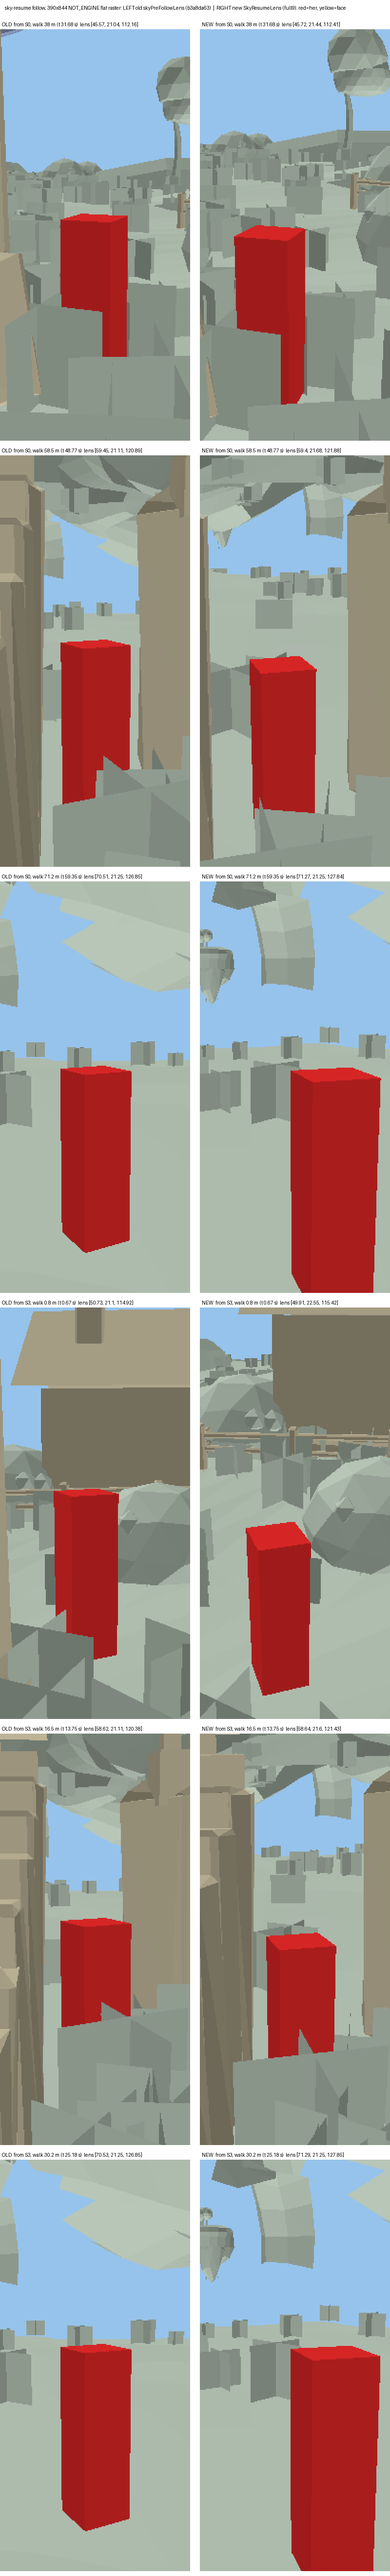
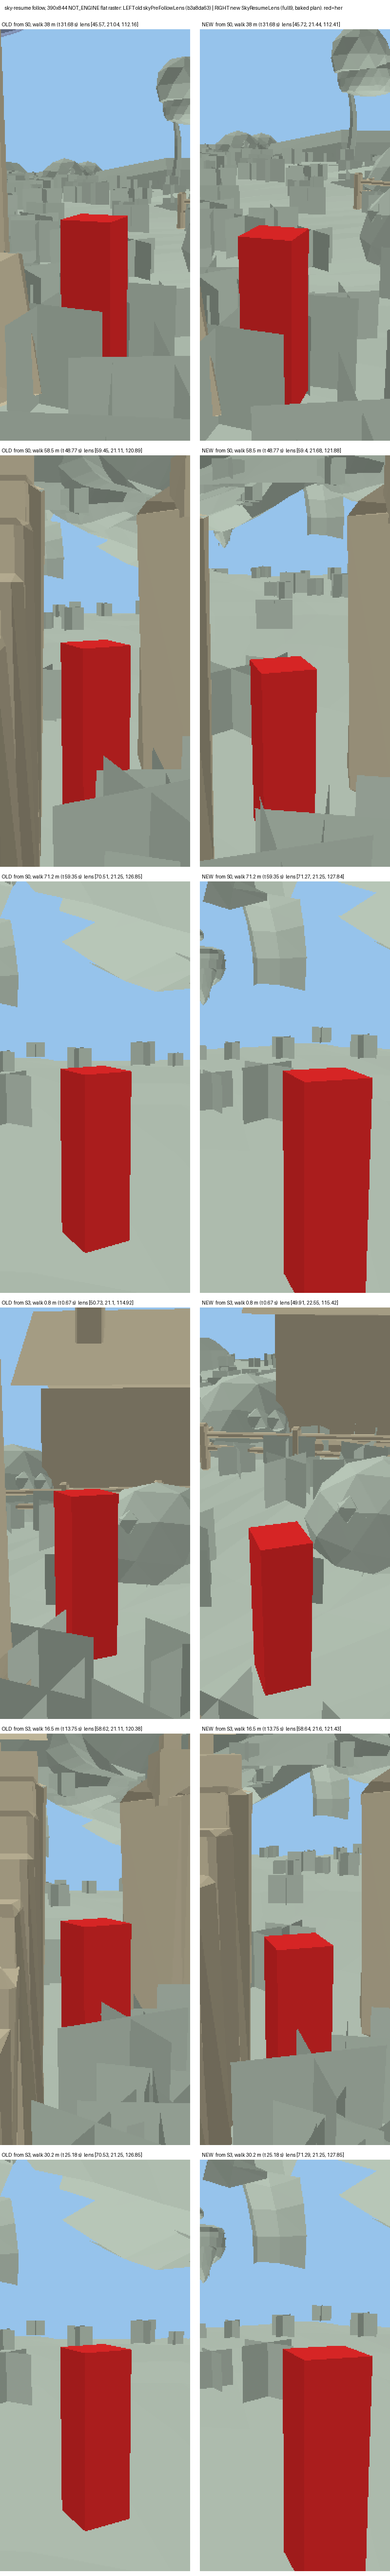
full9 sky-resume: baked SkyResumeLens plans for S0–S5 (SkyResumePlans.ts, generator bake_sky_resume_plans.cjs, staleness test sky-resume-plans-fresh in suite); runtime zero planning (0.1–6 ms lookup+trail), live planner only as logged fallback; lens positions unchanged (≤1 mm rounding); heading foll

diff --git a/creator-build-project/assets/scripts/region/SkyResumePlans.ts b/creator-build-project/assets/scripts/region/SkyResumePlans.ts
@@ -1,0 +1,9 @@
+// GENERATED by tools/skycity-walk/bake_sky_resume_plans.cjs — do not edit. voxHash b98b54f2b8880daa (SkyLensVoxels.ts sha256/16).
+export const SKY_RESUME_VOX_HASH='b98b54f2b8880daa';
+export const SKY_RESUME_PLANS:readonly {from:string;key:string;back:readonly number[];lift:readonly number[];side:readonly number[];feasible:boolean;worst:number}[]=[
+ {from:'S0',key:'57f26301:29',feasible:false,worst:10,back:[4.6,4.6,4.6,4.6,4.6,4.6,4.6,4.6,4.6,4.6,4.6,4.6,4.6,4.6,4.6,4.6,4.6,4.6,4.6,4.6,4.6,4.6,4.6,4.6,4.6,4.6,4.6,4.6,4.6,4.6,4.6,4.6,4.6,4.6,4.6,4.6,4.6,4.6,4.6,4.6,4.6,4.6,4.6,4.6,4.6,4.6,4.6,4.6,4.6,4.6,4.6,4.6,4.6,4.6,4.6,4.6,4.599,4.599,4.599,4.598,4.598,4.597,4.596,4.595,4.594,4.592,4.59,4.588,4.585,4.582,4.578,4.573,4.567,4.561,4.554,4.546,4.538,4.528,4.517,4.506,4.493,4.48,4.466,4.451,4.435,4.419,4.401,4.386,4.363,4.362,4.3,4.408,4.386,4.424,4.412,4.414,4.425,4.396,4.405,4.34,4.262,4.191,4.249,4.257,4.285,4.306,4.329,4.351,4.373,4.394,4.415,4.435,4.454,4.472,4.489,4.504,4.518,4.53,4.541,4.551,4.559,4.566,4.572,4.577,4.581,4.584,4.587,4.588,4.589,4.59,4.59,4.589,4.588,4.586,4.583,4.58,4.576,4.572,4.566,4.56,4.552,4.544,4.535,4.524,4.513,4.5,4.486,4.471,4.455,4.438,4.42,4.4,4.382,4.358,4.347,4.3,4.347,4.357,4.38,4.398,4.417,4.434,4.451,4.467,4.481,4.494,4.506,4.517,4.526,4.534,4.541,4.546,4.55,4.553,4.555,4.556,4.555,4.553,4.55,4.547,4.542,4.537,4.528,4.528,4.504,4.54,4.42,4.192,4.033,3.7,3.82,3.881,3.965,4.04,4.117,4.195,4.27,4.352,4.416,4.525,4.517,4.549,4.58,4.572,4.579,4.58,4.583,4.585,4.587,4.589,4.591,4.593,4.594,4.595,4.596,4.597,4.597,4.598,4.598,4.598,4.598,4.598,4.598,4.598,4.597,4.597,4.596,4.596,4.595,4.594,4.593,4.592,4.591,4.589,4.589,4.585,4.59,4.572,4.566,4.548,4.554,4.5,4.6,4.3,4,3.7,3.4,3.1,3.402,3.39,3.498,3.561,3.639,3.717,3.779,3.812,3.7,3.816,3.844,3.905,3.952,4.003,4.05,4.096,4.14,4.181,4.22,4.257,4.291,4.322,4.351,4.376,4.4,4.42,4.439,4.456,4.47,4.485,4.491,4.517,4.49,4.6,4.3,4,3.7,3.4,3.1,2.8,2.5,2.872,2.916,3.086,3.206,3.349,3.472,3.551,3.646,3.735,3.827,3.917,4.01,4.095,4.2,4.252,4.316,4.396,4.415,4.6,4.349,4.236,4.056,3.94,3.7,3.4,3.662,3.708,3.837,3.934,4.043,4.149,4.253,4.364,4.45,4.528],lift:[0,0,0,0,0,0,0,0,0,0,0,0,0,0,0,0,0,0,0,0,0,0,0,0,0,0,0,0,0,0,0,0,0,0,0,0,0,0,0,0,0,0,0.001,0.001,0.001,0.002,0.002,0.003,0.004,0.005,0.007,0.009,0.011,0.015,0.019,0.024,0.03,0.038,0.048,0.059,0.073,0.09,0.11,0.134,0.162,0.194,0.232,0.277,0.327,0.386,0.452,0.527,0.61,0.704,0.808,0.923,1.049,1.186,1.334,1.494,1.665,1.846,2.038,2.238,2.448,2.662,2.89,3.103,3.372,3.504,4,3.88,3.89,3.864,3.814,3.768,3.737,3.656,3.611,3.507,3.284,3.076,2.9,2.713,2.535,2.359,2.189,2.026,1.87,1.723,1.584,1.455,1.334,1.224,1.123,1.031,0.947,0.872,0.804,0.743,0.689,0.641,0.597,0.558,0.523,0.491,0.462,0.435,0.41,0.387,0.366,0.346,0.327,0.31,0.294,0.28,0.268,0.257,0.249,0.242,0.238,0.237,0.238,0.242,0.249,0.258,0.271,0.286,0.304,0.325,0.347,0.373,0.398,0.429,0.45,0.5,0.476,0.481,0.476,0.475,0.474,0.475,0.477,0.481,0.487,0.497,0.509,0.526,0.547,0.573,0.606,0.645,0.692,0.747,0.811,0.885,0.969,1.063,1.167,1.282,1.408,1.544,1.69,1.845,2.008,2.181,2.351,2.551,2.688,3,2.86,2.831,2.76,2.705,2.643,2.584,2.522,2.468,2.393,2.372,2.211,2.104,1.978,1.863,1.746,1.635,1.526,1.422,1.322,1.227,1.137,1.053,0.974,0.9,0.833,0.771,0.714,0.664,0.618,0.579,0.544,0.516,0.492,0.473,0.46,0.451,0.448,0.449,0.455,0.465,0.478,0.496,0.516,0.542,0.563,0.602,0.598,0.713,0.78,0.875,0.933,1.077,1,1.5,2,2.5,3,3.5,3.337,3.382,3.348,3.344,3.328,3.318,3.302,3.178,2.939,2.745,2.537,2.34,2.146,1.959,1.778,1.606,1.442,1.288,1.144,1.009,0.885,0.77,0.666,0.571,0.485,0.408,0.338,0.275,0.218,0.166,0.116,0.075,0.018,0.008,0,0,0,0,0,0,0,0,0,0,0,0,0,0,0,0,0,0,0,0,0,0,0,0,0,0,0,0,0,0,0,0,0,0,0,0,0,0,0,0,0,0],side:[0,0,0,0,0,0,0,0,0,0,0,0,0,0,0,0,0,0,0,0,0,0,0,0,0,0,0,0,0,0,0,0,0,0,0,0,0,0,0,0,0,0,0,0,0,0,0,0,0,0,0,0,0,0,0,0,0,0,0,0,0,0,0,0,0,0,0,0,0,0,0,0,0,0,0,0,0,0,0,0,0,0,0,0,0,0,0,0,0,0,0,0,0,0,0,0,0,0,0,0,0,0,0,0,0,0,0,0,0,0,0,0,0,0,0,0,0,0,0,0,0,0,-0.001,-0.001,-0.001,-0.001,-0.002,-0.002,-0.003,-0.004,-0.005,-0.007,-0.008,-0.01,-0.013,-0.016,-0.019,-0.023,-0.028,-0.033,-0.04,-0.047,-0.055,-0.064,-0.073,-0.084,-0.096,-0.109,-0.122,-0.137,-0.152,-0.169,-0.185,-0.205,-0.217,-0.25,-0.232,-0.234,-0.23,-0.23,-0.23,-0.234,-0.239,-0.248,-0.259,-0.274,-0.292,-0.314,-0.339,-0.368,-0.401,-0.438,-0.478,-0.521,-0.568,-0.618,-0.672,-0.728,-0.786,-0.847,-0.91,-0.975,-1.041,-1.109,-1.174,-1.25,-1.3,-1.2,-1.125,-1,-1,-0.892,-0.825,-0.743,-0.667,-0.588,-0.511,-0.43,-0.359,-0.264,-0.23,-0.184,-0.115,-0.126,-0.108,-0.101,-0.091,-0.083,-0.076,-0.071,-0.067,-0.065,-0.064,-0.066,-0.069,-0.075,-0.083,-0.094,-0.108,-0.124,-0.144,-0.166,-0.192,-0.221,-0.253,-0.288,-0.327,-0.368,-0.413,-0.46,-0.51,-0.563,-0.618,-0.672,-0.734,-0.781,-0.87,-0.853,-0.879,-0.882,-0.912,-0.886,-1,-0.75,-0.5,-0.25,0,0,0,0,0,0,0,0.001,0,0.003,0,-0.018,-0.032,-0.048,-0.066,-0.087,-0.11,-0.137,-0.168,-0.203,-0.242,-0.287,-0.336,-0.39,-0.45,-0.515,-0.585,-0.66,-0.739,-0.822,-0.908,-1.001,-1.083,-1.202,-1.23,-1.5,-1.25,-1,-0.75,-0.5,-0.5,-0.75,-1,-0.95,-0.951,-0.932,-0.92,-0.908,-0.89,-0.794,-0.729,-0.652,-0.579,-0.505,-0.43,-0.359,-0.278,-0.222,-0.153,-0.097,-0.014,0,0.193,0.264,0.414,0.45,0.75,0.5,0.486,0.383,0.314,0.232,0.155,0.075,-0.001,-0.085,-0.147,-0.203]},
+ {from:'S1',key:'747f2620:23',feasible:false,worst:4,back:[4.599,4.599,4.598,4.598,4.597,4.596,4.595,4.594,4.592,4.589,4.586,4.582,4.577,4.571,4.564,4.555,4.544,4.531,4.515,4.497,4.476,4.452,4.424,4.393,4.357,4.318,4.273,4.225,4.172,4.114,4.052,3.986,3.916,3.842,3.764,3.688,3.599,3.535,3.4,3.451,3.422,3.425,3.415,3.411,3.405,3.4,3.4,3.4,3.4,3.461,3.4,3.539,3.6,3.689,3.765,3.843,3.916,3.986,4.052,4.114,4.171,4.224,4.273,4.317,4.357,4.392,4.424,4.452,4.476,4.497,4.515,4.53,4.542,4.553,4.561,4.568,4.573,4.577,4.58,4.581,4.582,4.581,4.58,4.578,4.574,4.57,4.565,4.559,4.552,4.544,4.534,4.524,4.512,4.5,4.486,4.471,4.455,4.438,4.42,4.4,4.382,4.358,4.347,4.3,4.347,4.357,4.381,4.399,4.418,4.435,4.452,4.468,4.483,4.497,4.509,4.52,4.53,4.54,4.548,4.554,4.56,4.565,4.569,4.573,4.575,4.577,4.578,4.579,4.579,4.578,4.577,4.576,4.574,4.571,4.571,4.564,4.47,4.433,4.3,4.386,4.388,4.421,4.456,4.489,4.524,4.553,4.6,4.6,4.6,4.6,4.6,4.6,4.6,4.6,4.6,4.6,4.6,4.6,4.6,4.6,4.6,4.6,4.6,4.6,4.6,4.6,4.6,4.6,4.6,4.6,4.6,4.6,4.6,4.6,4.6,4.6,4.6,4.6,4.6,4.6,4.6,4.6,4.6,4.6,4.6,4.6,4.6,4.6,4.6,4.6,4.6,4.6,4.6,4.3,4,3.7,3.4,3.604,3.616,3.701,3.757,3.826,3.888,3.957,3.94,4,4.026,4.064,4.098,4.132,4.166,4.199,4.231,4.261,4.291,4.319,4.345,4.37,4.392,4.413,4.431,4.448,4.462,4.474,4.485,4.493,4.501,4.505,4.512,4.51,4.528,4.489,4.6,4.3,4,4.165,4.151,4.205,4.233,4.269,4.299,4.33,4.359,4.386,4.411,4.434,4.455,4.475,4.492,4.508,4.522,4.534,4.545,4.554,4.562,4.569,4.575,4.579,4.583,4.587,4.59,4.592,4.594,4.595,4.596,4.597,4.598,4.598,4.599,4.599,4.6,4.6],lift:[0.004,0.004,0.005,0.007,0.009,0.011,0.015,0.019,0.025,0.033,0.042,0.053,0.067,0.085,0.105,0.13,0.16,0.195,0.236,0.284,0.34,0.403,0.475,0.556,0.648,0.749,0.861,0.983,1.116,1.26,1.413,1.576,1.748,1.927,2.116,2.301,2.517,2.667,3,2.86,2.858,2.777,2.733,2.656,2.615,2.5,2.5,2.5,2.5,2.396,2.283,2.151,2.028,1.904,1.784,1.668,1.556,1.448,1.346,1.25,1.16,1.076,0.998,0.927,0.861,0.801,0.746,0.697,0.652,0.611,0.573,0.539,0.508,0.48,0.453,0.428,0.405,0.384,0.363,0.344,0.326,0.309,0.294,0.28,0.268,0.257,0.249,0.242,0.238,0.237,0.238,0.242,0.249,0.259,0.271,0.287,0.305,0.325,0.348,0.373,0.399,0.429,0.451,0.5,0.478,0.484,0.48,0.481,0.481,0.483,0.486,0.492,0.499,0.51,0.524,0.542,0.565,0.593,0.628,0.67,0.72,0.779,0.847,0.925,1.015,1.115,1.227,1.351,1.487,1.634,1.793,1.963,2.143,2.33,2.531,2.724,2.96,3.102,3.5,3.236,3.218,3.128,2.999,2.888,2.762,2.663,2.5,2.5,2.314,2.201,2.062,1.937,1.81,1.689,1.572,1.46,1.354,1.253,1.158,1.069,0.987,0.91,0.84,0.776,0.718,0.666,0.619,0.579,0.543,0.514,0.489,0.47,0.456,0.448,0.444,0.446,0.454,0.466,0.484,0.507,0.535,0.568,0.606,0.648,0.694,0.743,0.797,0.85,0.915,0.956,1.063,1,1.5,2,2.5,3,3.5,3.293,3.356,3.315,3.315,3.296,3.294,3.262,3.2,2.938,2.754,2.543,2.347,2.151,1.963,1.781,1.607,1.442,1.286,1.14,1.005,0.88,0.766,0.662,0.568,0.485,0.41,0.344,0.286,0.235,0.19,0.151,0.116,0.083,0.055,0.022,0.006,0.004,0.004,0.004,0.003,0.003,0.003,0.003,0.003,0.003,0.003,0.004,0.004,0.005,0.006,0.008,0.009,0.011,0.014,0.017,0.02,0.024,0.029,0.034,0.039,0.046,0.053,0.061,0.069,0.078,0.088,0.099,0.11,0.122,0.134,0.147,0.16,0.175,0.187,0.206],side:[0,0,0,0,0,0,0,0,0,0,0,0,0,0,0,0,0,0,0,0,0,0,0,0,0,0,0,0,0,0,0,0,0,0,0,0,0,0,0,0,0,0,0,0,0,0,0,0,0,0,0,0,0,0,0,0,0,0,0,0,0,0,0,0,0,0,0,0,0,0,-0.001,-0.001,-0.001,-0.001,-0.002,-0.002,-0.003,-0.004,-0.005,-0.007,-0.008,-0.01,-0.013,-0.016,-0.019,-0.023,-0.028,-0.033,-0.04,-0.047,-0.055,-0.063,-0.073,-0.084,-0.096,-0.108,-0.122,-0.137,-0.152,-0.169,-0.185,-0.204,-0.217,-0.25,-0.229,-0.23,-0.225,-0.223,-0.222,-0.224,-0.228,-0.235,-0.245,-0.259,-0.275,-0.295,-0.319,-0.347,-0.378,-0.413,-0.452,-0.494,-0.54,-0.589,-0.64,-0.695,-0.752,-0.812,-0.873,-0.936,-1.001,-1.067,-1.134,-1.202,-1.268,-1.34,-1.195,-1.139,-1,-0.987,-0.924,-0.883,-0.8,-0.735,-0.658,-0.598,-0.5,-0.5,-0.389,-0.321,-0.248,-0.161,-0.143,-0.107,-0.084,-0.066,-0.054,-0.048,-0.045,-0.045,-0.048,-0.053,-0.06,-0.069,-0.08,-0.093,-0.109,-0.128,-0.15,-0.175,-0.204,-0.236,-0.273,-0.313,-0.356,-0.404,-0.455,-0.51,-0.568,-0.629,-0.694,-0.757,-0.832,-0.883,-1,-0.948,-0.959,-0.949,-0.942,-0.95,-0.908,-1,-0.75,-0.5,-0.25,0,-0.25,-0.134,-0.157,-0.128,-0.117,-0.104,-0.079,-0.092,-0.05,-0.25,-0.132,-0.136,-0.093,-0.067,-0.035,-0.004,0.029,0.062,0.097,0.133,0.172,0.213,0.257,0.304,0.354,0.408,0.466,0.527,0.592,0.661,0.734,0.808,0.887,0.964,1.053,1.116,1.25,1.25,1,0.991,0.891,0.827,0.751,0.684,0.617,0.553,0.494,0.438,0.386,0.338,0.294,0.254,0.218,0.186,0.157,0.132,0.111,0.092,0.076,0.062,0.05,0.04,0.032,0.026,0.02,0.016,0.012,0.009,0.007,0.005,0.004,0.003,0.002,0.001,0.001,0]},
+ {from:'S2',key:'eae05bb8:23',feasible:false,worst:10,back:[3.659,3.646,3.626,3.597,3.56,3.516,3.466,3.409,3.353,3.278,3.239,3.1,3.218,3.237,3.294,3.336,3.384,3.428,3.418,3.424,3.436,3.412,3.379,3.356,3.294,3.34,3.1,3.4,3.415,3.537,3.616,3.708,3.791,3.873,3.95,4.022,4.089,4.152,4.209,4.261,4.307,4.349,4.386,4.418,4.446,4.47,4.49,4.507,4.521,4.531,4.539,4.545,4.548,4.549,4.548,4.546,4.541,4.535,4.528,4.519,4.508,4.496,4.483,4.468,4.453,4.436,4.418,4.399,4.381,4.357,4.347,4.3,4.346,4.357,4.38,4.398,4.417,4.434,4.451,4.467,4.482,4.496,4.508,4.52,4.53,4.539,4.547,4.555,4.561,4.566,4.571,4.574,4.577,4.58,4.582,4.583,4.584,4.584,4.585,4.584,4.587,4.578,4.6,4.54,4.459,4.3,4.397,4.398,4.429,4.469,4.494,4.506,4.522,4.536,4.549,4.561,4.574,4.582,4.598,4.593,4.596,4.596,4.597,4.597,4.598,4.598,4.599,4.599,4.599,4.599,4.599,4.599,4.599,4.599,4.599,4.599,4.599,4.599,4.599,4.599,4.599,4.598,4.598,4.598,4.598,4.597,4.597,4.597,4.596,4.595,4.596,4.593,4.6,4.579,4.572,4.553,4.557,4.502,4.6,4.3,4,3.7,3.4,3.1,3.392,3.385,3.492,3.556,3.634,3.712,3.776,3.809,3.7,3.812,3.84,3.899,3.945,3.994,4.041,4.086,4.129,4.171,4.21,4.247,4.281,4.312,4.341,4.368,4.391,4.413,4.431,4.449,4.463,4.478,4.485,4.512,4.481,4.6,4.3,4,3.7,3.4,3.1,2.8,2.5,2.8,2.873,3.033,3.159,3.3,3.429,3.496,3.586,3.667,3.751,3.831,3.915,3.99,4.086,4.127,4.185,4.247,4.28,4.397,4.292,4.271,4.219,4.177,4.14,4.081,4.082,4.097,4.161,4.207,4.26,4.311,4.363,4.417,4.465,4.53],lift:[1.666,1.69,1.729,1.786,1.857,1.943,2.041,2.152,2.27,2.4,2.526,2.68,2.772,2.89,2.999,3.111,3.226,3.329,3.364,3.419,3.483,3.5,3.411,3.332,3.216,3.2,2.925,2.751,2.542,2.353,2.165,1.985,1.812,1.649,1.494,1.348,1.213,1.087,0.971,0.864,0.766,0.677,0.597,0.525,0.461,0.403,0.353,0.309,0.271,0.239,0.212,0.19,0.173,0.16,0.152,0.148,0.147,0.15,0.157,0.168,0.181,0.197,0.217,0.239,0.264,0.29,0.319,0.35,0.381,0.418,0.443,0.5,0.477,0.485,0.482,0.485,0.486,0.49,0.496,0.504,0.515,0.529,0.547,0.57,0.599,0.633,0.675,0.725,0.783,0.851,0.928,1.017,1.117,1.229,1.353,1.489,1.637,1.797,1.967,2.149,2.338,2.54,2.737,2.971,3.126,3.5,3.309,3.348,3.308,3.275,3.166,3.015,2.881,2.741,2.604,2.467,2.332,2.198,2.067,1.938,1.813,1.692,1.575,1.462,1.355,1.253,1.157,1.066,0.981,0.902,0.828,0.76,0.697,0.638,0.584,0.535,0.489,0.447,0.408,0.373,0.34,0.31,0.282,0.256,0.232,0.21,0.189,0.17,0.149,0.137,0.104,0.131,0,0.283,0.405,0.597,0.74,0.959,1,1.5,2,2.5,3,3.5,3.338,3.386,3.354,3.352,3.338,3.33,3.317,3.205,2.966,2.777,2.571,2.377,2.184,1.997,1.817,1.644,1.479,1.323,1.177,1.04,0.913,0.797,0.691,0.594,0.507,0.428,0.358,0.295,0.238,0.187,0.138,0.097,0.043,0.029,0,0,0,0,0,0,0,0,0,0,0,0,0,0,0,0,0,0,0,0,0,0,0,0,0,0,0,0,0,0,0,0,0,0,0,0,0,0,0,0,0,0],side:[-1.154,-1.161,-1.174,-1.192,-1.214,-1.242,-1.274,-1.31,-1.347,-1.393,-1.426,-1.5,-1.471,-1.483,-1.479,-1.483,-1.481,-1.49,-1.491,-1.495,-1.5,-1.5,-1.5,-1.5,-1.5,-1.5,-1.5,-1.5,-1.414,-1.36,-1.295,-1.234,-1.172,-1.111,-1.051,-0.991,-0.933,-0.875,-0.819,-0.764,-0.71,-0.659,-0.609,-0.562,-0.516,-0.473,-0.432,-0.394,-0.359,-0.326,-0.296,-0.269,-0.244,-0.223,-0.204,-0.188,-0.175,-0.165,-0.157,-0.152,-0.149,-0.148,-0.15,-0.154,-0.16,-0.168,-0.177,-0.188,-0.2,-0.214,-0.223,-0.25,-0.233,-0.233,-0.228,-0.227,-0.227,-0.23,-0.234,-0.242,-0.253,-0.267,-0.285,-0.306,-0.331,-0.359,-0.392,-0.428,-0.468,-0.512,-0.559,-0.609,-0.663,-0.719,-0.779,-0.84,-0.904,-0.97,-1.038,-1.104,-1.18,-1.233,-1.35,-1.3,-1.159,-1,-0.985,-0.911,-0.869,-0.791,-0.705,-0.626,-0.546,-0.468,-0.39,-0.317,-0.238,-0.18,-0.07,-0.101,-0.078,-0.077,-0.069,-0.064,-0.06,-0.057,-0.055,-0.055,-0.057,-0.06,-0.065,-0.073,-0.083,-0.096,-0.111,-0.129,-0.151,-0.176,-0.205,-0.237,-0.273,-0.313,-0.357,-0.405,-0.456,-0.511,-0.569,-0.629,-0.694,-0.757,-0.832,-0.883,-1,-0.946,-0.96,-0.943,-0.954,-0.911,-1,-0.75,-0.5,-0.25,0,0,0,0,0,0,0,0,0,0.002,0,-0.018,-0.031,-0.048,-0.066,-0.086,-0.11,-0.137,-0.167,-0.203,-0.242,-0.287,-0.336,-0.391,-0.452,-0.517,-0.588,-0.663,-0.743,-0.828,-0.915,-1.009,-1.094,-1.212,-1.25,-1.5,-1.25,-1,-0.75,-0.5,-0.5,-0.75,-1,-0.95,-0.951,-0.933,-0.922,-0.91,-0.892,-0.792,-0.724,-0.643,-0.566,-0.487,-0.408,-0.328,-0.248,-0.169,-0.09,-0.009,0.067,0.153,0.214,0.285,0.349,0.42,0.472,0.571,0.548,0.5,0.398,0.317,0.228,0.143,0.055,-0.028,-0.123,-0.187]},
+ {from:'S3',key:'6f51b3b5:17',feasible:false,worst:10,back:[3.342,3.331,3.313,3.288,3.257,3.219,3.182,3.126,3.112,2.98,3.016,3.035,3.166,3.234,3.343,3.435,3.531,3.623,3.713,3.799,3.882,3.961,4.036,4.106,4.173,4.235,4.293,4.348,4.4,4.448,4.497,4.535,4.6,4.59,4.595,4.595,4.597,4.597,4.598,4.599,4.599,4.6,4.6,4.6,4.6,4.6,4.6,4.6,4.6,4.6,4.6,4.6,4.6,4.6,4.6,4.6,4.6,4.6,4.6,4.599,4.599,4.599,4.599,4.598,4.598,4.597,4.597,4.596,4.595,4.595,4.594,4.593,4.591,4.575,4.568,4.55,4.555,4.501,4.6,4.3,4,3.7,3.4,3.1,3.405,3.392,3.501,3.564,3.642,3.72,3.78,3.817,3.7,3.818,3.846,3.907,3.955,4.005,4.053,4.099,4.143,4.184,4.223,4.26,4.294,4.325,4.353,4.379,4.402,4.423,4.441,4.458,4.472,4.487,4.493,4.519,4.492,4.6,4.3,4,3.7,3.4,3.1,2.8,2.5,2.872,2.916,3.086,3.206,3.35,3.472,3.552,3.648,3.738,3.83,3.921,4.015,4.1,4.207,4.257,4.321,4.399,4.42,4.6,4.359,4.26,4.08,4,3.7,3.4,3.714,3.734,3.867,3.956,4.062,4.163,4.263,4.37,4.456,4.528],lift:[2.4,2.425,2.465,2.523,2.594,2.68,2.771,2.885,2.962,3.152,3.294,3.473,3.648,3.731,3.781,3.84,3.89,3.935,3.971,3.999,4.016,4.023,4.018,4.003,3.978,3.943,3.899,3.847,3.789,3.722,3.66,3.569,3.544,3.341,3.166,2.982,2.803,2.626,2.452,2.283,2.12,1.962,1.812,1.67,1.535,1.409,1.292,1.184,1.084,0.993,0.91,0.836,0.769,0.71,0.657,0.612,0.573,0.541,0.514,0.494,0.479,0.469,0.464,0.464,0.468,0.476,0.489,0.505,0.522,0.546,0.564,0.602,0.592,0.71,0.777,0.873,0.931,1.076,1,1.5,2,2.5,3,3.5,3.337,3.382,3.347,3.343,3.327,3.316,3.299,3.174,2.934,2.74,2.533,2.335,2.141,1.953,1.773,1.601,1.437,1.283,1.139,1.005,0.881,0.767,0.663,0.568,0.482,0.405,0.335,0.272,0.214,0.162,0.111,0.07,0.011,0.004,0,0,0,0,0,0,0,0,0,0,0,0,0,0,0,0,0,0,0,0,0,0,0,0,0,0,0,0,0,0,0,0,0,0,0,0,0,0,0,0,0,0],side:[-1.245,-1.252,-1.264,-1.281,-1.302,-1.326,-1.353,-1.384,-1.411,-1.45,-1.408,-1.342,-1.232,-1.146,-1.067,-0.986,-0.907,-0.83,-0.756,-0.684,-0.616,-0.552,-0.491,-0.434,-0.38,-0.331,-0.284,-0.242,-0.201,-0.164,-0.126,-0.097,-0.048,-0.054,-0.047,-0.045,-0.042,-0.039,-0.037,-0.034,-0.033,-0.031,-0.031,-0.031,-0.031,-0.033,-0.036,-0.039,-0.044,-0.051,-0.059,-0.069,-0.081,-0.096,-0.112,-0.132,-0.154,-0.179,-0.207,-0.239,-0.273,-0.31,-0.35,-0.393,-0.439,-0.487,-0.536,-0.588,-0.641,-0.695,-0.748,-0.806,-0.855,-0.855,-0.876,-0.882,-0.911,-0.886,-1,-0.75,-0.5,-0.25,0,0,0,0,0,0.001,0.001,0.001,0,0.006,0,-0.017,-0.03,-0.046,-0.064,-0.084,-0.108,-0.134,-0.165,-0.2,-0.239,-0.284,-0.333,-0.388,-0.447,-0.512,-0.582,-0.656,-0.735,-0.819,-0.903,-0.997,-1.078,-1.198,-1.222,-1.5,-1.25,-1,-0.75,-0.5,-0.5,-0.75,-1,-0.95,-0.95,-0.931,-0.919,-0.904,-0.89,-0.793,-0.727,-0.649,-0.576,-0.502,-0.426,-0.355,-0.273,-0.218,-0.15,-0.095,-0.013,0,0.194,0.281,0.431,0.5,0.75,0.5,0.446,0.363,0.291,0.214,0.14,0.064,-0.009,-0.089,-0.152,-0.203]},
+ {from:'S4',key:'227cd3c7:10',feasible:false,worst:18,back:[4.446,4.442,4.436,4.426,4.415,4.401,4.384,4.366,4.344,4.324,4.295,4.286,4.221,4.3,4,3.7,3.4,3.1,2.8,2.5,2.2,2.2,2.2,2.2,2.2,2.2,1.9,2.172,2.226,2.362,2.464,2.578,2.685,2.793,2.898,3.001,3.102,3.205,3.295,3.414,3.453,3.7,3.4,3.4,3.1,2.8,2.5,2.826,2.909,3.085,3.225,3.378,3.525,3.673,3.82,3.967,4.114,4.235,4.331,4.3,4.317,4.315,4.32,4.323,4.327,4.33,4.332,4.335,4.336,4.336,4.335,4.332,4.328,4.322,4.314,4.305,4.293,4.283,4.264,4.265,4.211,4.3,4,3.7,3.4,3.1,2.8,2.5,2.2,2.2,2.454,2.611,2.804,2.986,3.164,3.367,3.403,3.503,3.579,3.664,3.744,3.829,3.902,4.005,4.032,4.081,4.138,4.149,4.29,4.088,4.015,3.897,3.784,3.7,3.4,3.669,3.738,3.837,3.924,4.016,4.106,4.197,4.285,4.381,4.458,4.544],lift:[2.34,2.358,2.386,2.427,2.48,2.543,2.617,2.701,2.79,2.894,2.985,3.128,3.151,3.5,3,2.5,2,1.5,1,0.5,0.5,0.732,1,0.928,1,1,0.5,0.726,0.675,0.73,0.746,0.779,0.807,0.838,0.87,0.903,0.939,0.972,1.019,1.031,1.137,1,1.5,2,2.5,3,3.2,3.144,3.183,3.185,3.2,3.21,3.221,3.231,3.241,3.25,3.259,3.245,3.203,2.977,2.781,2.576,2.377,2.182,1.992,1.808,1.632,1.464,1.305,1.155,1.015,0.885,0.765,0.654,0.552,0.458,0.372,0.292,0.217,0.144,0.078,0.001,0,0,0,0,0,0,0,0,0,0,0,0,0,0,0,0,0,0,0,0,0,0,0,0,0,0,0,0,0,0,0,0,0,0,0,0,0,0,0,0,0,0,0,0],side:[0,0,0,0,0,0,0,0,0,0,0,0,0,0,0,-0.25,-0.5,-0.75,-1,-1.25,-1.5,-1.5,-1.5,-1.5,-1.5,-1.5,-1.5,-1.484,-1.474,-1.462,-1.451,-1.44,-1.428,-1.416,-1.405,-1.393,-1.382,-1.368,-1.362,-1.336,-1.362,-1.25,-1.5,-1.25,-1,-0.75,-0.5,-0.539,-0.47,-0.442,-0.399,-0.362,-0.323,-0.286,-0.247,-0.212,-0.17,-0.16,-0.116,-0.25,-0.199,-0.22,-0.216,-0.226,-0.235,-0.251,-0.27,-0.296,-0.326,-0.362,-0.404,-0.451,-0.504,-0.562,-0.624,-0.692,-0.761,-0.838,-0.908,-1.006,-1.034,-1.25,-1,-0.75,-0.5,-0.25,-0.5,-0.75,-1,-1,-0.978,-0.964,-0.946,-0.932,-0.913,-0.904,-0.797,-0.727,-0.643,-0.565,-0.484,-0.404,-0.323,-0.245,-0.158,-0.074,0.011,0.098,0.176,0.278,0.362,0.476,0.516,0.75,0.5,0.457,0.304,0.274,0.196,0.137,0.071,0.007,-0.056,-0.125,-0.175,-0.224]},
+ {from:'S5',key:'25dbb0eb:2',feasible:true,worst:0,back:[4.6,4.6,4.6,4.6,4.6,4.6,4.6,4.6,4.6,4.6,4.6,4.6,4.6,4.6,4.6,4.6,4.6,4.6,4.6,4.6,4.6,4.6,4.6,4.6,4.6,4.6,4.6,4.6,4.6,4.6,4.6,4.6,4.6,4.6,4.6,4.6,4.6,4.6,4.6,4.6,4.6,4.6,4.6,4.6],lift:[0,0,0,0,0,0,0,0,0,0.001,0.001,0.001,0.001,0.002,0.002,0.003,0.004,0.005,0.006,0.008,0.01,0.012,0.015,0.018,0.022,0.026,0.031,0.037,0.043,0.05,0.058,0.067,0.076,0.087,0.098,0.11,0.122,0.135,0.148,0.162,0.175,0.189,0.201,0.22],side:[-0.012,-0.012,-0.012,-0.012,-0.012,-0.012,-0.012,-0.011,-0.011,-0.011,-0.011,-0.01,-0.01,-0.009,-0.009,-0.008,-0.008,-0.007,-0.007,-0.006,-0.006,-0.005,-0.005,-0.004,-0.004,-0.003,-0.003,-0.002,-0.002,-0.002,-0.001,-0.001,-0.001,-0.001,-0.001,-0.001,0,0,0,0,0,0,0,0]}];

diff --git a/creator-build-project/assets/scripts/region/SkyResumeLens.ts b/creator-build-project/assets/scripts/region/SkyResumeLens.ts
@@ -13,6 +13,7 @@ import type {Pose,Vec} from '../world-r1/WorldFlowCore';
 import {SKY_PRE_FOLLOW} from './SkyLakePreWalk';
 import {blendPose as lakeBlendPose} from './LakesideBalloon';
 import {SKY_LENS_VOX} from './SkyLensVoxels';
+import {SKY_RESUME_PLANS} from './SkyResumePlans';
 import {b64Bytes,voxClear,type VoxGrid} from './LensVoxels';
 export const SKY_RESUME_LENS=Object.freeze({clrM:1.15/* the test probes 1.15 m; voxel box distance is already conservative */,stepM:0.25,trailSigmaM:2.2,
  backs:[4.6,4.3,4.0,3.7,3.4,3.1,2.8,2.5,2.2,1.9,1.6,1.3,1.0] as readonly number[],lifts:[0,0.5,1,1.5,2,2.5,3,3.5,4,4.5,5,5.5,6,6.5,7] as readonly number[],sides:[-1.5,-1.25,-1,-0.75,-0.5,-0.25,0,0.25,0.5,0.75,1,1.25,1.5] as readonly number[],smoothIters:60,wLift:1,wBack:2,wSide:2,wChange:3,frameNdc:0.8,minAsp:0.46,smoothM:1.5});
@@ -38,10 +39,22 @@ export function ndc(c:Pose,q:Vec,asp:number):number{const f=[c.target[0]-c.posit
  const r=[f[2],0,-f[0]],rn=Math.hypot(r[0],r[2])||1;r[0]/=rn;r[2]/=rn;const u=[f[1]*r[2]-f[2]*r[1],f[2]*r[0]-f[0]*r[2],f[0]*r[1]-f[1]*r[0]],d=[q[0]-c.position[0],q[1]-c.position[1],q[2]-c.position[2]],z=d[0]*f[0]+d[1]*f[1]+d[2]*f[2];if(z<=0.05)return 9;
  const th=Math.tan((c.fovVerticalDeg??46)*Math.PI/360);return Math.max(Math.abs((d[0]*r[0]+d[2]*r[2])/z/(th*asp)),Math.abs((d[0]*u[0]+d[1]*u[1]+d[2]*u[2])/z/th));}
 /** toLocal: world → skycity model-local (the voxel space). */
-export function planSkyResume(P:readonly Vec[],toLocal:(w:Vec)=>Vec,K=SKY_RESUME_LENS):SkyResumePlan{
- const g=skyVox(),A=arcOf(P),end=A[A.length-1],step=K.stepM,trail0=-8,nT=Math.ceil((end+2-trail0)/step)+1,raw:Vec[]=[];
+/** trail curve: walk path extended 8 m back, Gaussian-smoothed over arc (cheap; rebuilt from a baked plan too) */
+export function skyTrail(P:readonly Vec[],K=SKY_RESUME_LENS):{A:number[];trail:Vec[];trail0:number;step:number}{
+ const A=arcOf(P),end=A[A.length-1],step=K.stepM,trail0=-8,nT=Math.ceil((end+2-trail0)/step)+1,raw:Vec[]=[];
  for(let i=0;i<nT;i++)raw.push(arcAt(P,A,trail0+i*step));
  const sg=K.trailSigmaM/step,R=Math.ceil(3*sg),trail:Vec[]=raw.map((_,i)=>{let w=0,x=0,z=0;for(let j=-R;j<=R;j++){const q=raw[Math.max(0,Math.min(nT-1,i+j))],ww=Math.exp(-j*j/(2*sg*sg));w+=ww;x+=q[0]*ww;z+=q[2]*ww;}return [x/w,0,z/w];});
+ return {A,trail,trail0,step};}
+/** key of a walk path (rounded to 1 mm) + the planner constants — a baked plan is used only for the identical path */
+export function skyPathKey(P:readonly Vec[]):string{let h=2166136261;const str=JSON.stringify(P.map(p=>p.map(v=>Math.round(v*1000))))+JSON.stringify(SKY_RESUME_LENS);
+ for(let i=0;i<str.length;i++){h^=str.charCodeAt(i);h=Math.imul(h,16777619)>>>0;}return h.toString(16)+':'+P.length;}
+export type BakedSkyPlan={key:string;back:readonly number[];lift:readonly number[];side:readonly number[];feasible:boolean;worst:number};
+export function planFromBaked(P:readonly Vec[],b:BakedSkyPlan):SkyResumePlan{const t=skyTrail(P);return {P,A:t.A,s0:0,step:t.step,back:b.back.slice(),lift:b.lift.slice(),side:b.side.slice(),trail:t.trail,trail0:t.trail0,feasible:b.feasible,worst:b.worst};}
+/** runtime entry: the baked plan for this walk (SkyResumePlans, zero planning) or — logged by the caller via .baked=false — the live planner */
+export function skyResumePlanFor(P:readonly Vec[],toLocal:(w:Vec)=>Vec):{plan:SkyResumePlan;baked:boolean;key:string}{const key=skyPathKey(P),b=SKY_RESUME_PLANS.find(x=>x.key===key);
+ return b?{plan:planFromBaked(P,b),baked:true,key}:{plan:planSkyResume(P,toLocal),baked:false,key};}
+export function planSkyResume(P:readonly Vec[],toLocal:(w:Vec)=>Vec,K=SKY_RESUME_LENS):SkyResumePlan{
+ const g=skyVox(),{A,trail,trail0,step}=skyTrail(P,K),end=A[A.length-1];
  const pl={P,A,trail,trail0,step},nS=Math.floor(end/step)+1,B=K.backs,Lf=K.lifts,Sd=K.sides,nL=Lf.length,nB=B.length,nc=Sd.length*nB*nL,dec=(c:number)=>({si:Math.floor(c/(nB*nL)),bi:Math.floor(c/nL)%nB,li:c%nL});
  const ok:boolean[][]=[];for(let si=0;si<nS;si++){const s=si*step,her=arcAt(P,A,s),face:Vec=[her[0],her[1]+1.5,her[2]],chest:Vec=[her[0],her[1]+1.2,her[2]],fl=toLocal(face),cl=toLocal(chest),row:boolean[]=[];
   for(const sd of Sd)for(const b of B)for(const l of Lf){const w=lensAt(pl,s,b,l,sd),p=toLocal(w),c=aimPose(w,her);row.push(ndc(c,face,K.minAsp)<=K.frameNdc&&ndc(c,chest,K.minAsp)<=K.frameNdc&&voxClear(g,p,K.clrM)&&voxSight(g,p,fl)&&voxSight(g,p,cl));}ok.push(row);}
@@ -69,7 +82,7 @@ export function skyResumePose(pl:SkyResumePlan,her:Vec):Pose{const k=SKY_PRE_FOL
  const b=pl.back[i]+(pl.back[i+1]-pl.back[i])*f,l=pl.lift[i]+(pl.lift[i+1]-pl.lift[i])*f,sd=pl.side[i]+(pl.side[i+1]-pl.side[i])*f,p=lensAt(pl,s,b,l,sd),dy=her[1]-arcAt(pl.P,pl.A,s)[1];p[1]+=dy;
  const hx=her[0]-p[0],hz=her[2]-p[2],hl=Math.hypot(hx,hz)||1;
  return {position:p,target:[her[0]+hx/hl*k.aheadM,her[1]+k.aimUpM,her[2]+hz/hl*k.aheadM],fovVerticalDeg:k.fovDeg};}
-export const SKY_RESUME_YAW=Object.freeze({omega:4,yawDegS:100,accDegS2:240});
+export const SKY_RESUME_YAW=Object.freeze({omega:6,yawDegS:100,accDegS2:240});
 export type SkyResumeState={yaw:number;v:number};
 /** Runtime lens: planned position; the view HEADING is a critically damped follower (rate ≤ yawDegS, accel ≤ accDegS2) of the heading through
  *  her, so the walking yaw caps hold by construction; pitch / target height as planned. First blendInS: blend from the live lens. */

diff --git a/creator-build-project/assets/scripts/world-r2/WorldNativeComposition.ts b/creator-build-project/assets/scripts/world-r2/WorldNativeComposition.ts
@@ -39,7 +39,7 @@ import { SKY_PRE_FOLLOW, skyLakePreWalk, skyPreFollowPose, skyResumeAtS6 } from 
 import { TRANSITION_STAGING } from '../region/TransitionStaging';
 import { blendPose as lakeBlendPose } from '../region/LakesideBalloon';
 import { skyPreFollowLens } from '../region/SkyPreFollow';
-import { planSkyResume, skyResumeLens, skyWorldToLocal, type SkyResumeState } from '../region/SkyResumeLens';
+import { skyResumePlanFor, skyResumeLens, skyWorldToLocal, type SkyResumeState } from '../region/SkyResumeLens';
 import { qaUnlocked } from '../region/ExploreGate';
 import { RegionNodeStage } from './RegionNodeStage';
 import { ExploreInput } from './ExploreInput';
@@ -285,7 +285,7 @@ export class WorldNativeComposition extends Component {
       if(!skyResumeAtS6((RegionCampaign as any).canEnterRegion(this.mainline.journeySnapshot(),'lakeside')))return null;
       const actor=this.boundCharacter as any,node=actor?.node;if(!node?.isValid)return null;const g=node.worldPosition;
       const pre=skyLakePreWalk([g.x,g.y,g.z],TRANSITION_STAGING.skyMooring5a as any);if(!pre)return null;
-      const camera=this.worldCamera;let st=0,smooth:any=null,rs:SkyResumeState|null=null;const P=pre.path;let plan:any=null;try{const M5=TRANSITION_STAGING.skyMooring5a as any;plan=planSkyResume(P as any,q=>skyWorldToLocal(M5,q));try{console.info('[QF_SKY_RESUME] lens-plan '+JSON.stringify({samples:plan.back.length,feasible:plan.feasible,worst:plan.worst}));}catch{}}catch(e){console.warn('[QF_SKY_RESUME] lens-plan failed, full8 lens: '+String(e));plan=null;}const c0=camera?{position:[camera.node.worldPosition.x,camera.node.worldPosition.y,camera.node.worldPosition.z],target:(()=>{const q=camera.node.forward;const p=camera.node.worldPosition;return [p.x+q.x*8,p.y+q.y*8,p.z+q.z*8];})(),fovVerticalDeg:camera.fov}:null;
+      const camera=this.worldCamera;let st=0,smooth:any=null,rs:SkyResumeState|null=null;const P=pre.path;let plan:any=null;try{const M5=TRANSITION_STAGING.skyMooring5a as any;const t0=Date.now(),R=skyResumePlanFor(P as any,q=>skyWorldToLocal(M5,q));plan=R.plan;try{const info=JSON.stringify({baked:R.baked,key:R.key,ms:Date.now()-t0,samples:plan.back.length,feasible:plan.feasible,worst:plan.worst});if(R.baked)console.info('[QF_SKY_RESUME] lens-plan '+info);else console.warn('[QF_SKY_RESUME] lens-plan LIVE FALLBACK (no baked plan for this walk) '+info);}catch{}}catch(e){console.warn('[QF_SKY_RESUME] lens-plan failed, full8 lens: '+String(e));plan=null;}const c0=camera?{position:[camera.node.worldPosition.x,camera.node.worldPosition.y,camera.node.worldPosition.z],target:(()=>{const q=camera.node.forward;const p=camera.node.worldPosition;return [p.x+q.x*8,p.y+q.y*8,p.z+q.z*8];})(),fovVerticalDeg:camera.fov}:null;
       const draw=()=>{if(!camera||!camera.node?.isValid||!node.isValid)return;const dt=Math.min(.1,Math.max(0,director.getDeltaTime()));st+=dt;const w=node.worldPosition,her:[number,number,number]=[w.x,w.y,w.z];
         let k=0,b=Infinity;for(let i=0;i+1<P.length;i++){const a=P[i],c=P[i+1],vx=c[0]-a[0],vz=c[2]-a[2],l2=vx*vx+vz*vz||1,u=Math.max(0,Math.min(1,((her[0]-a[0])*vx+(her[2]-a[2])*vz)/l2)),dx=a[0]+vx*u-her[0],dz=a[2]+vz*u-her[2],d=dx*dx+dz*dz;if(d<b){b=d;k=i;}}
         void k;let pose:any;if(plan){const L=skyResumeLens(plan,her,st,c0 as any,dt,rs);rs=L.state;pose=L.pose;}else{const L=skyPreFollowLens({her,path:P,dt,t:st,live:c0 as any,prev:smooth});smooth=L.state;pose=L.pose;}/* 运镜bot full9: planned lens, 1.1 m clear of the real skycity mesh (SkyLensVoxels) + clear sightline; fallback = full8 lens */applyCameraPose(camera,fromLookAt(pose,pose.fovVerticalDeg??camera.fov),'skycity.resume-s6');};
